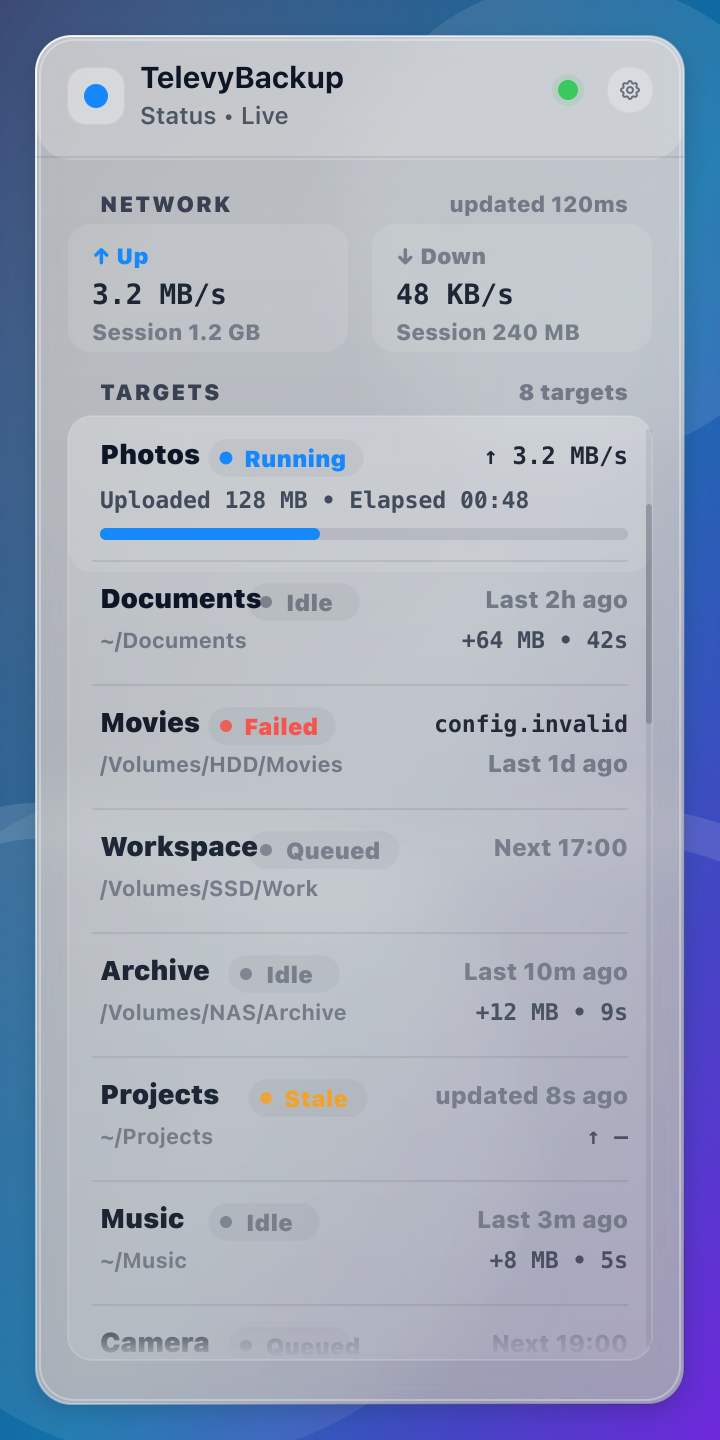
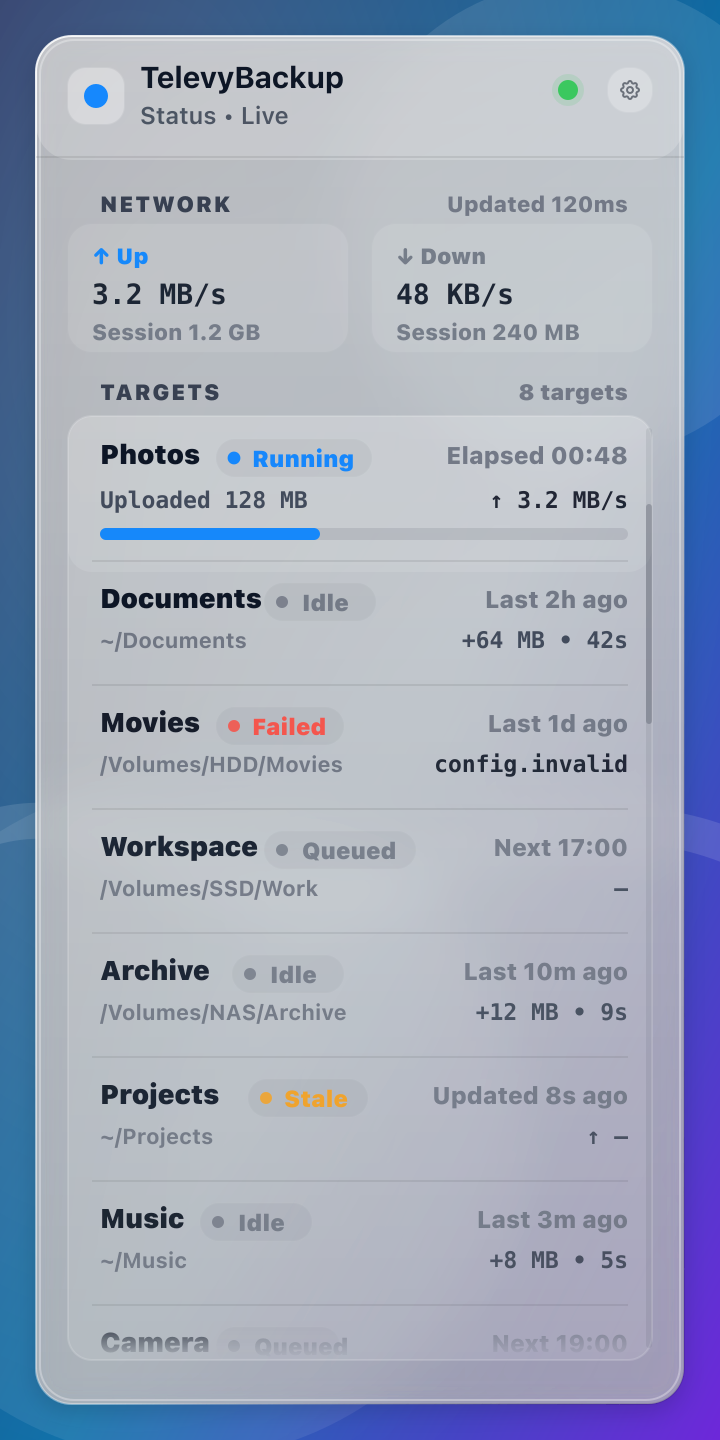
docs(ui): normalize targets layout and right column semantics
- Fix label↔badge spacing consistency

- Make right column semantics stable (time on top, value on bottom)

- Re-export PNG previews from SVG

diff --git a/docs/design/ui/statusbar-popover-dashboard/README.md b/docs/design/ui/statusbar-popover-dashboard/README.md
@@ -43,6 +43,22 @@
 - 列表右上角仅展示 targets 总数（例如 `8 targets`），不暗示当前滚动位置。
 - 当 `targets=0`：展示 empty state，引导用户打开 Settings 添加 targets，并提供主按钮 `Open Settings…`。
 
+#### Targets 行：对齐规则（修订）
+
+- `label` 与 status badge 之间的水平距离应 **尽量一致**（视觉上保持约 `10px` 的间隔）；不以“badge 统一列对齐”为目标（避免不同长度 label 造成间距参差）。
+- 右侧信息采用“主/次两行”结构：**主行**（top-right）+ **次行**（bottom-right），并固定到统一的基线位置，避免每行右侧信息随状态乱跳。
+- 当某行在当前状态下没有可展示内容时，显示 `—`（而不是留空），以保持视觉节奏与信息密度一致。
+
+右侧信息映射（冻结口径，语义固定）：
+
+- **主行（top-right）永远是时间类**：`Last …` / `Next …` / `Updated …` / `Elapsed …`
+- **次行（bottom-right）永远是数值类**：`↑ <rate>` / `+<bytes> • <duration>` / `<errorCode>` / `—`
+- `Running`：主行 = `Elapsed mm:ss`；次行 = `↑ <rate>`（mono）
+- `Idle`：主行 = `Last <relative>`；次行 = `+<bytesUploaded> • <duration>`（mono）
+- `Failed`：主行 = `Last <relative>`；次行 = `<errorCode>`（mono）
+- `Queued`：主行 = `Next <time>`；次行 = `—`
+- `Stale`：主行 = `Updated <age> ago`；次行 = `↑ —`（mono）
+
 ### 3) Dev：详细状态（尽量充分）
 
 - 入口：Settings window 提供“Developer…”入口（增加入口，不新增 Settings 页面），点击打开独立窗口

diff --git a/docs/design/ui/statusbar-popover-ia.md b/docs/design/ui/statusbar-popover-ia.md
@@ -16,7 +16,7 @@ Design assets:
 
 - Header（固定）
   - App 标识 + 标题 `TelevyBackup`
-  - 状态 LED（例如：Online/Offline/Syncing）
+  - 状态 LED：`Live / Stale / Disconnected`（由快照新鲜度判定）
   - 右侧：齿轮（打开 Settings window）/`…`（可选）
 - 全局状态（NETWORK）
   - 实时上下行速率（↑/↓）
@@ -26,11 +26,15 @@ Design assets:
   - 实时上行（业务口径 bytesUploaded）、体积指标（bytesRead/bytesUploaded）、运行状态
   - 最近一次运行时间/用时（失败时显示短 error code）
   - 运行中显示进度条 + 已用时（可选 ETA）
+  - 对齐规则：`label` 与 status badge 的水平间距保持一致（视觉约 `10px`），避免不同 label 长度导致参差
+  - 右侧信息采用主/次两行结构（主行 top-right、次行 bottom-right），并保持固定基线位置
+    - 主行语义固定为时间类：`Last/Next/Updated/Elapsed`
+    - 次行语义固定为数值类：`↑ rate / +bytes•dur / errorCode / —`
+    - 没有内容时显示 `—`（不留空）
   - 列表可滚动时：上下边缘渐隐提示仅在“未到顶/未到底”时显示（使用内容 alpha mask，避免遮罩染色）
 - Empty（targets=0）
   - 显示引导文案 + 主按钮 `Open Settings…`（跳转到 Settings 添加 targets）
-- Footer
-  - Telegram storage 连接状态 + 简短提示（错误时提供一行可操作引导）
+（注）Popover 不再承载 footer；连接/排障信息通过 header 状态与 Developer window 提供。
 
 ## Dev（开发者视图）
 

diff --git a/docs/plan/0010:status-popover-dashboard/PLAN.md b/docs/plan/0010:status-popover-dashboard/PLAN.md
@@ -237,3 +237,4 @@
 - 2026-01-25：实现 `status.json`（daemon）+ `televybackup status get/stream`（CLI）+ Popover Overview（全局 network + targets）+ Developer window（原始字段 + activity + Copy JSON/Reveal/Freeze）；同步设计资产到 `docs/design/ui/` 并更新 IA 文档；验证：`cargo test`、`scripts/macos/build-app.sh`。
 - 2026-01-25：Popover 打开时 best-effort 拉起 `televybackupd`：优先 `launchctl kickstart gui/<uid>/homebrew.mxcl.televybackupd`，无服务时回退为从 app bundle（或 PATH）直接启动；`scripts/macos/build-app.sh` 将 `televybackupd` 打进 `.app`，确保本地构建可自动拉起。
 - 2026-01-25：对齐 Popover Overview 视觉基准图：NETWORK/updated 排版、Up/Down chip 样式、Targets list（badge/row/empty state）与滚动分隔线；并将 daemon/status stream 的 best-effort 启动前置到 app launch（无需先打开 popover）。
+- 2026-01-26：订正设计基准图：Targets 行 `label`↔badge 间距统一（视觉约 10px）；右侧信息语义固定为“主行时间类 + 次行数值类”，避免不同状态下右侧含义乱跳，并同步到 IA 文档。
